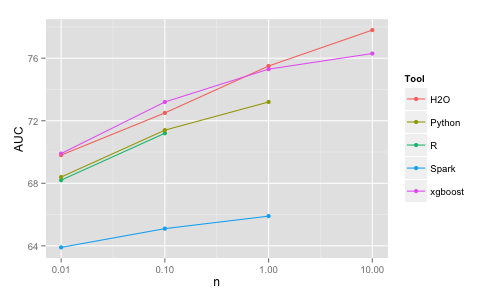
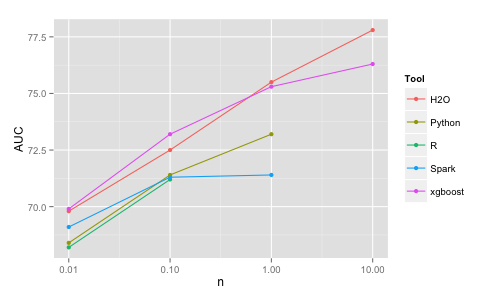
spark RF fixes

diff --git a/README.md b/README.md
@@ -189,7 +189,7 @@ H2O     | 10K  |      15       |   2      | 69.8
         | 10M  |     4000      |   25     | 77.8
 Spark   | 10K  |      50       |   10     | 69.1
         | 100K |      270      |   30     | 71.3
-        | 1M   |  crash/2000   |          | xxx
+        | 1M   |  crash/2000   |          | 71.4
 xgboost | 10K  |     4         |    1     | 69.9
         | 100K |    20         |    1     | 73.2
         | 1M   |    170        |    2     | 75.3
